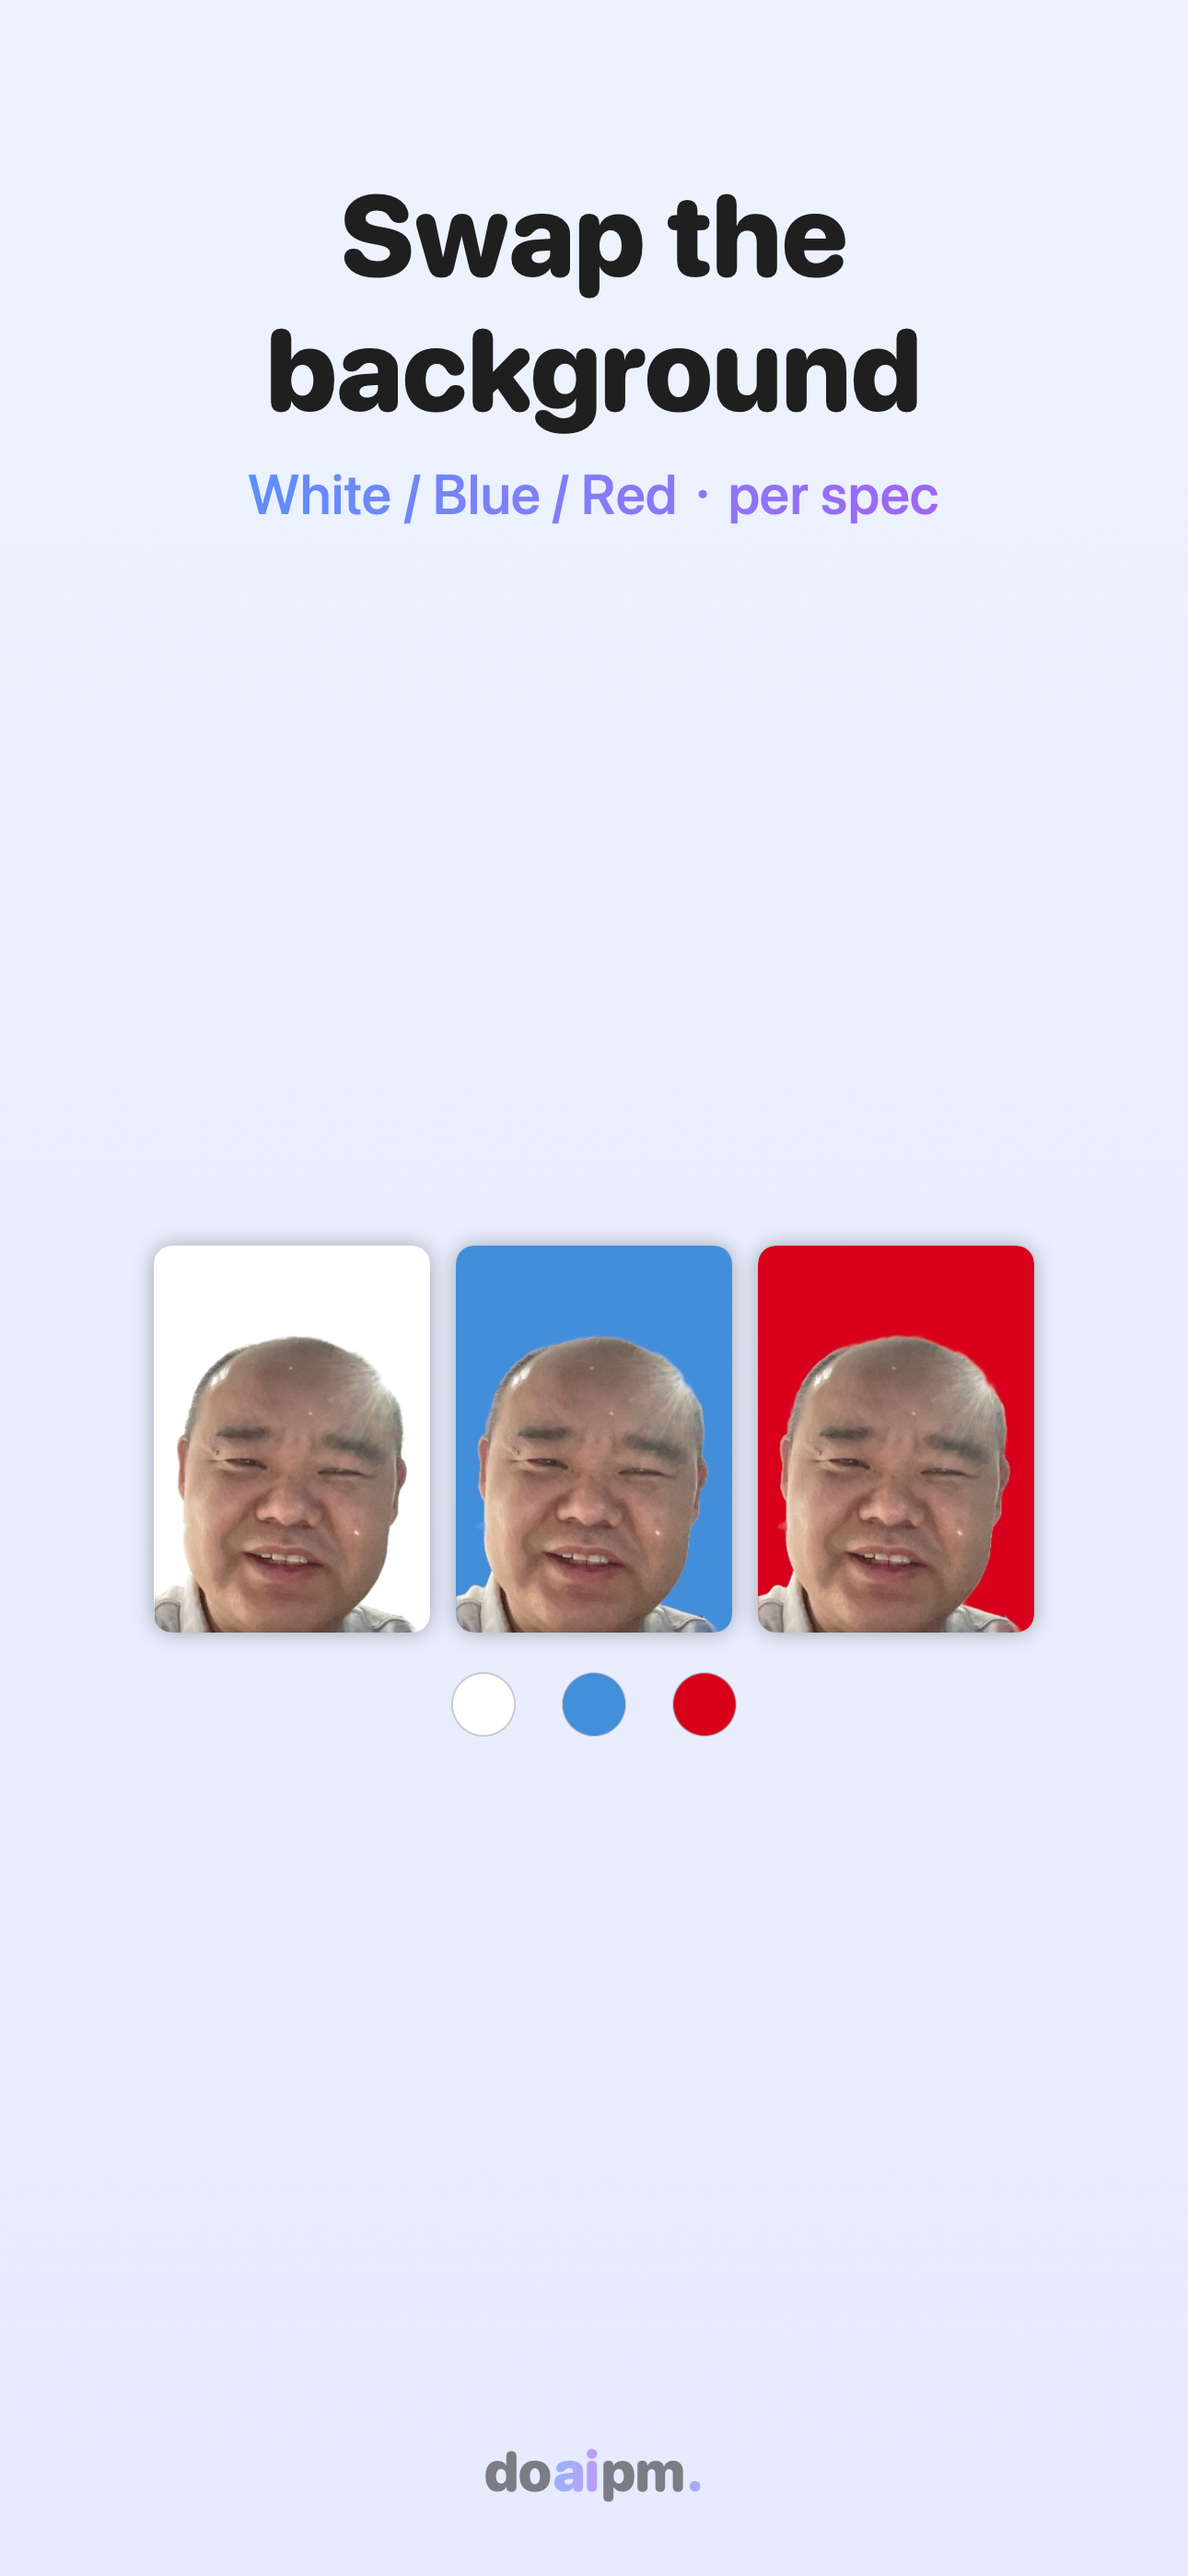
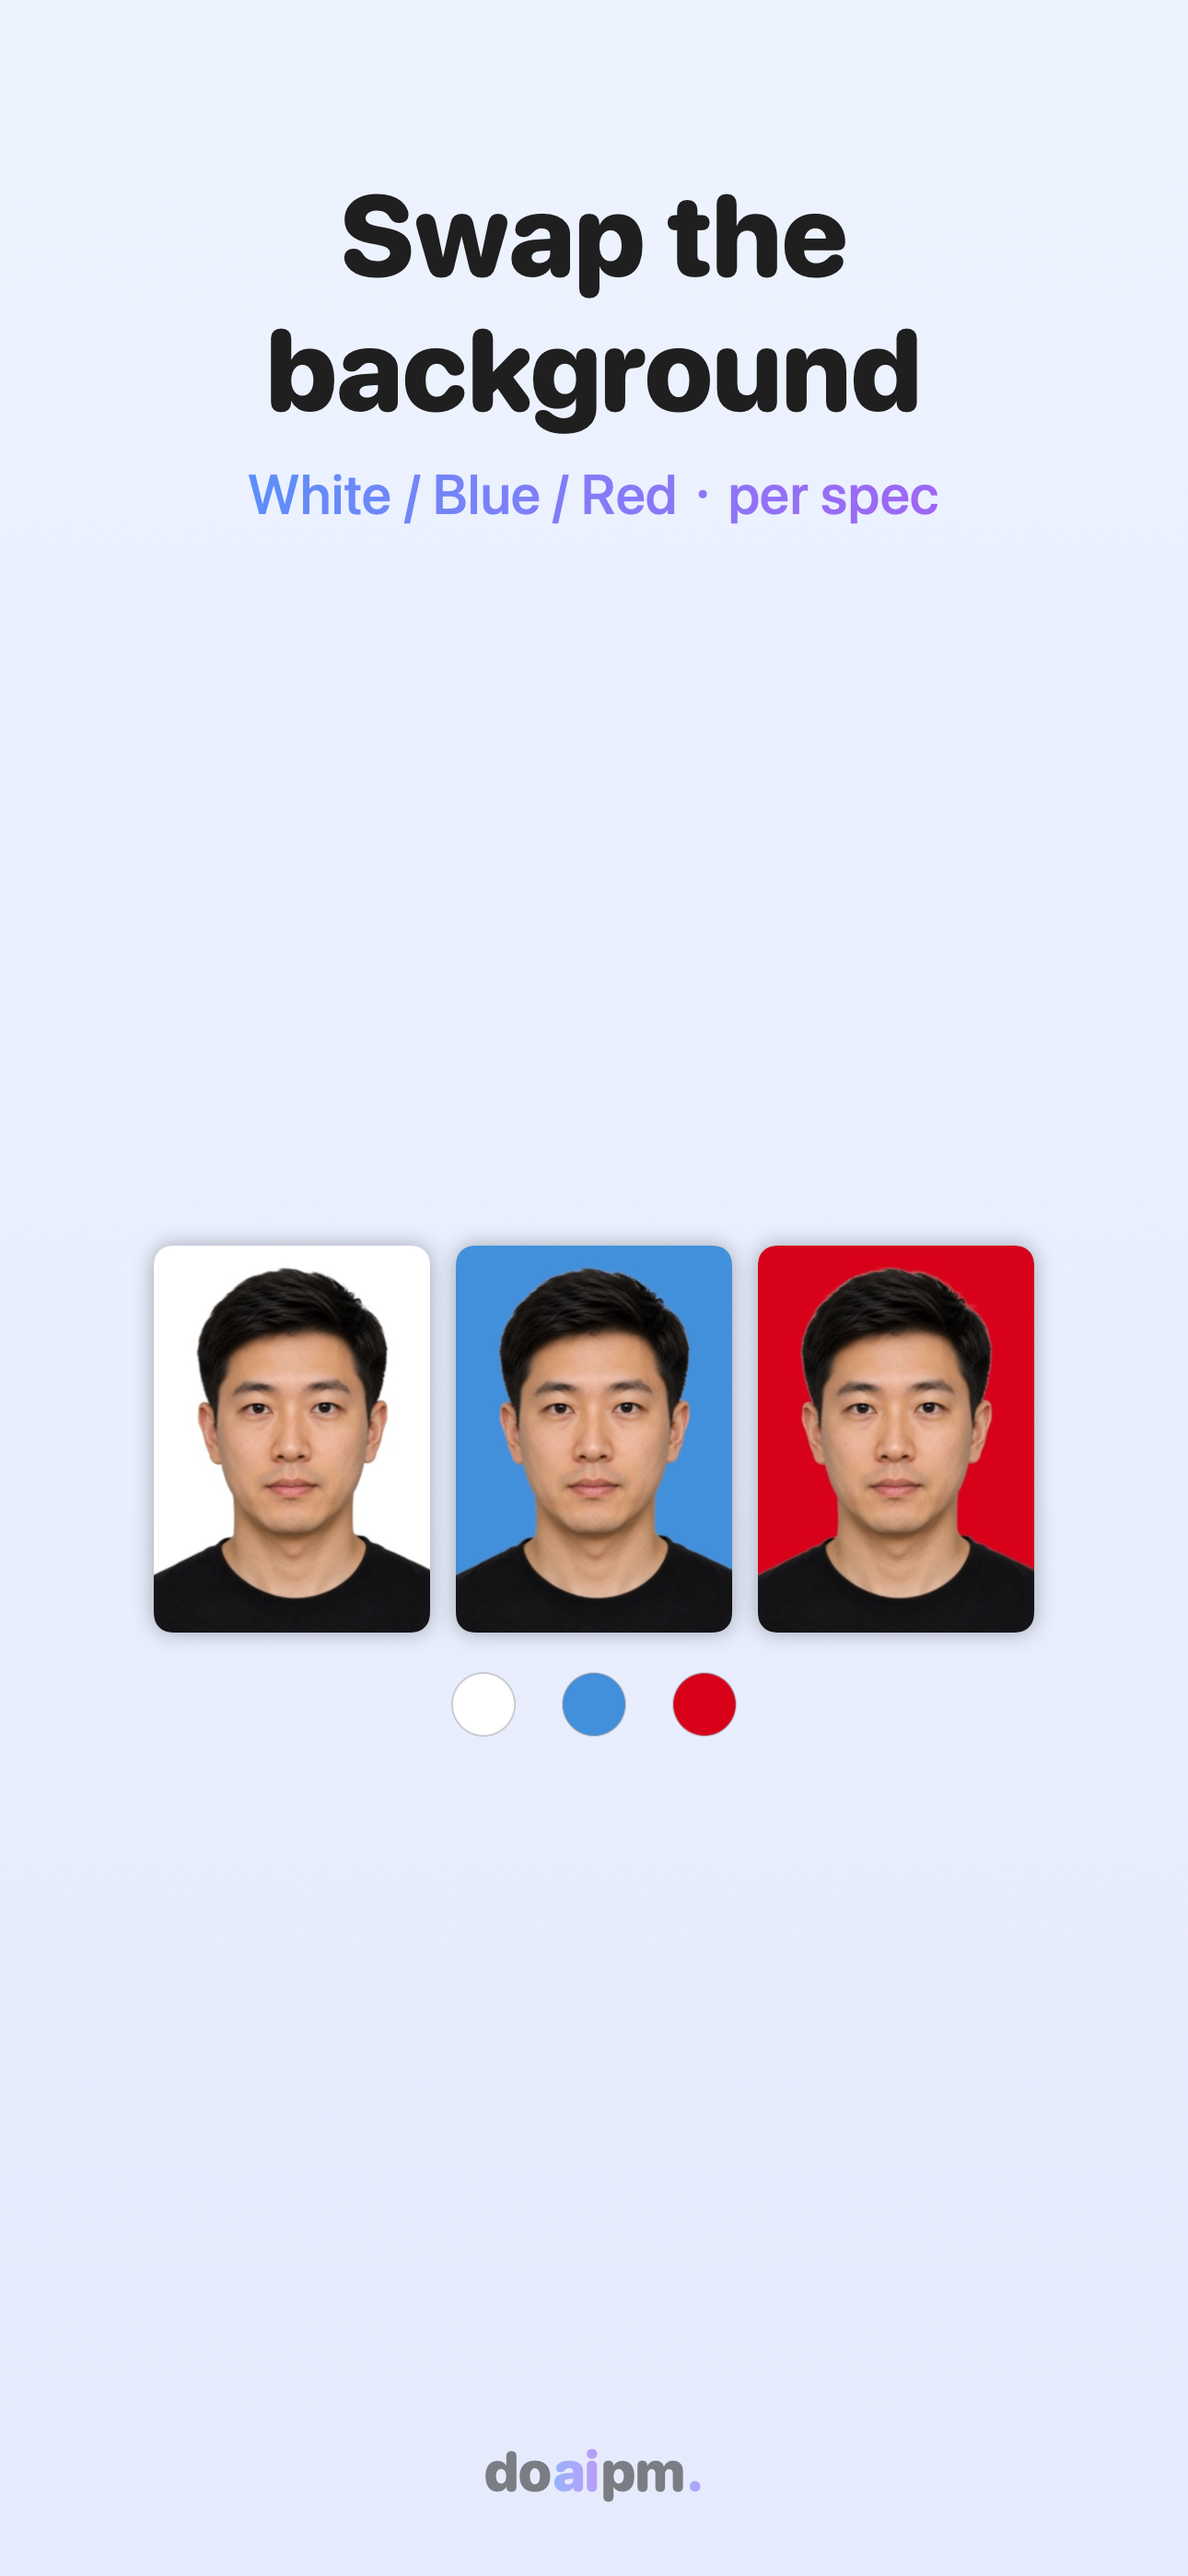
Replace App Store screenshots with AI-generated synthetic face (v1.0.1 / build 16)
Screenshots #1 (guide framing) and #2 (background swap) previously baked in a
real personal photo. Swap in an AI-generated fictional face (no real identity):
the portrait is composited into the existing branded template, and the
white/blue/red background variants are produced through the app's own
`freeidctl bgreplace` pipeline. Screenshot #3 (specs table) is unchanged.

Source images are now persisted in scripts/asc/assets/ and screenshots.swift
reads them from there (relative to the script) instead of ephemeral /tmp, so
the screenshots regenerate reproducibly from a clean checkout.

Bumps to 1.0.1 (build 16), submitted for review with the new screenshots.

Changed region(s): [[0.124, 0.4667, 0.8682, 0.6534]]

diff --git a/scripts/asc/screenshots.swift b/scripts/asc/screenshots.swift
@@ -1,6 +1,10 @@
 import SwiftUI
 import AppKit
 
+// Source photos live next to this script in ./assets (an AI-generated synthetic face + its
+// white/blue/red background variants made via `freeidctl bgreplace`). No real person is used.
+let ASSETS = URL(fileURLWithPath: #filePath).deletingLastPathComponent().appendingPathComponent("assets").path
+
 let brand = LinearGradient(colors:[Color(red:0.36,green:0.56,blue:0.98),Color(red:0.62,green:0.40,blue:0.96)],startPoint:.leading,endPoint:.trailing)
 let bg = LinearGradient(colors:[Color(red:0.93,green:0.95,blue:1.0),Color(red:0.90,green:0.92,blue:0.99)],startPoint:.top,endPoint:.bottom)
 
@@ -20,7 +24,7 @@ struct GuideContent:View{ var body:some View{
     let hr=CGRect(x:fr.midX-hw/2,y:hcy-hh/2,width:hw,height:hh)
     let dash=StrokeStyle(lineWidth:4,lineCap:.round,lineJoin:.round,dash:[14,11])
     ZStack{
-      Image(nsImage:NSImage(contentsOfFile:"/tmp/face2.jpg")!).resizable().scaledToFill().frame(width:geo.size.width,height:geo.size.height).clipped()
+      Image(nsImage:NSImage(contentsOfFile:ASSETS+"/face2.jpg")!).resizable().scaledToFill().frame(width:geo.size.width,height:geo.size.height).clipped()
       Path{p in p.addRect(CGRect(origin:.zero,size:geo.size));p.addRoundedRect(in:fr,cornerSize:CGSize(width:20,height:20))}.fill(.black.opacity(0.45),style:FillStyle(eoFill:true))
       Ellipse().stroke(.white.opacity(0.95),style:dash).frame(width:hw,height:hh).position(x:hr.midX,y:hr.midY)
       Shoulders(hr:hr,f:fr).stroke(.white.opacity(0.95),style:dash)
@@ -32,7 +36,7 @@ struct GuideContent:View{ var body:some View{
 struct ColorsContent:View{ var body:some View{
   VStack(spacing:22){
     HStack(spacing:14){
-      ForEach(["/tmp/out_cn.jpg","/tmp/bg_blue.jpg","/tmp/bg_red.jpg"],id:\.self){f in
+      ForEach([ASSETS+"/out_cn.jpg",ASSETS+"/bg_blue.jpg",ASSETS+"/bg_red.jpg"],id:\.self){f in
         Image(nsImage:NSImage(contentsOfFile:f)!).resizable().scaledToFit().frame(width:150).clipShape(RoundedRectangle(cornerRadius:10)).shadow(radius:6)
       }
     }
